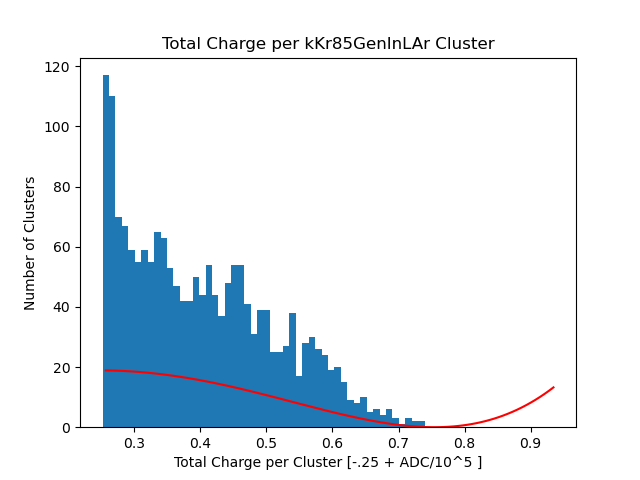
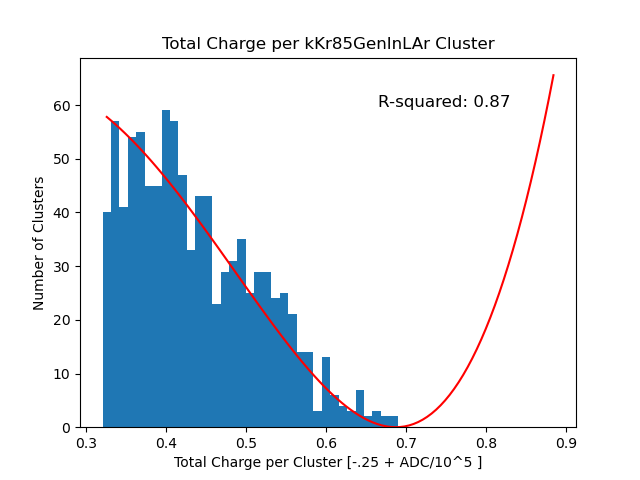
Corrected beta fit

diff --git a/app/cluster_analyse.py b/app/cluster_analyse.py
@@ -17,6 +17,7 @@ import os
 import argparse
 import warnings
 import gc
+from sklearn.metrics import r2_score
 
 import sys
 sys.path.append('../python/') 
@@ -140,9 +141,9 @@ dont use = 2
 '''
 #decay energies from https://periodictable.com/Isotopes/018.39/index.dm.html
 background_max_energy = {  
-    -1: [2,1],
-    0: [2,1 ],
-    1: [2,1 ],
+    -1: [2,1,0],
+    0: [2,1,0 ],
+    1: [2,1,0 ],
     2: [0,.565, 18,0], #beta
     3: [0,.68706,36,0], #beta
     4: [0,.59888,18,0], #beta
@@ -153,7 +154,7 @@ background_max_energy = {
     9: [0, 3.2697,83,0],   # beta (MeV)
     10: [0, 63.486e-3,82,0], # beta (MeV)
     11: [0, 1.31107,19,0], # beta (MeV)
-    12: [2,1 ],       # No specified type or energy
+    12: [2,1,0 ],       # No specified type or energy
     13: [0, .59888,19,0], # beta (MeV)
     14: [2, 6.11468,84,0],  # alpha (MeV)  #temporarily disableing this, why would in CPA be different distrigution that LAr
     15: [0, 1.0189,82,0],   # beta (MeV)
@@ -161,9 +162,9 @@ background_max_energy = {
     17: [0, 63.486e-3,82,0], # beta (MeV)
     18: [0, 1.161292,83,0],  # beta (MeV)
     19: [0, 2.823067,27,0], #beta
-    20: [2,1 ],
-    21: [2,1 ],
-    22: [2,1 ]
+    20: [2,1,0 ],
+    21: [2,1,0 ],
+    22: [2,1 ,0]
 }
 
 if uniform:
@@ -237,7 +238,7 @@ for label_num, charge_list in charge_lists.items():
     
     
     # Fit a polynomial to the histogram data
-
+    '''
     fig2 = plt.figure()
     hist, bins, _ = plt.hist(charge_list, bins=200)  
     plt.title(f'Total Charge per {labels[label_num]} Cluster [ADC]')  
@@ -268,8 +269,10 @@ for label_num, charge_list in charge_lists.items():
    
     plt.clf()
     
-    
+  '''
+  
     #fit sigmoid to hist data
+    # 
     if label_num not in exlude_expo:
         '''
         cut = np.std(charge_list)
@@ -319,34 +322,49 @@ for label_num, charge_list in charge_lists.items():
             denominator = (1-np.exp(-2*np.pi*eta(Z,T)))  
             return numerator/denominator    
         
-        def N(T,Z,C,Q):
+        def N(T,C,Z=background_max_energy[label_num][2],Q=background_max_energy[label_num][1]):
             return C*F(Z,T)*P(T)*E(T)*np.power((Q-T),2)
         
     if (label_num not in exlude_expo) and (len(background_max_energy[label_num]) > 2):
         scale = 100000
         if (len(charge_list)>10):
-            cut = (max(charge_list)/scale)/30 #cut out first 1st 1/25th of hist range
+            cut = (max(charge_list)/scale)/10 #cut out first 1st 1/25th of hist range
         else:
-            cut = .2
+            cut = .4
+        start = .2
         # to fit the expression for beta decay onto the ADC graph, I had to first modify the histogram because the expression does not scale
         # Now just find endpoint, and reverse the modification to find on ADC graph 
         # i.e. Find endpoint of fit, subtract .25, then multiply by 100,000 to find ADC endpoint
-        cut_charge_list_fit = [x/scale + .25 for x in charge_list if x/scale > cut ] # charge cut to cut out spike at low energies
-        charge_list_plt = [x/scale + .25 for x in charge_list] #charge list to plot, doesnt have spike cut but has scale
+        cut_charge_list_fit = [x/scale + start for x in charge_list if x/scale + start > .32 ] # charge cut to cut out spike at low energies
+        #charge_list_plt = [x/scale + .25 for x in charge_list] #charge list to plot, doesnt have spike cut but has scale
         fig_fermi = plt.figure()
-        hist_fit, bins, _ = plt.hist(cut_charge_list_fit,bins = 50)
-        plt.clf()
-        hist, bins, _ = plt.hist(charge_list_plt, bins=50)  #plot the hist but fit fermi on the cut histogram
+        hist_fit, bins, _ = plt.hist(cut_charge_list_fit,bins = 35)
+        #plt.clf()
+        #hist, bins, _ = plt.hist(cut_charge_list_fit, bins=60)  #plot the hist but fit fermi on the cut histogram
         plt.title(f'Total Charge per {labels[label_num]} Cluster')  
         plt.xlabel('Total Charge per Cluster [-.25 + ADC/10^5 ]')  
         plt.ylabel('Number of Clusters') 
         x = (bins[:-1] + bins[1:]) / 2  # Get x values for the center of each bin
+       
+        #bounds = ([background_max_energy[label_num][2]-100000, -10000000, background_max_energy[label_num][1]-500],
+         # [background_max_energy[label_num][2]+100000, 100000000, background_max_energy[label_num][1]+500])
      
         try:
-            params, pcov = curve_fit(N, x, hist_fit, p0=[background_max_energy[label_num][2],4,background_max_energy[label_num][1]])
+            #params = [0,200,1]
+            #params, pcov = curve_fit(N, x, hist_fit, p0=[background_max_energy[label_num][2],4,background_max_energy[label_num][1]])
+            params, pcov = curve_fit(N, x, hist_fit, p0=200)
+            perr = np.sqrt(np.diag(pcov))
             x_curve = np.linspace(min(x), max(x)+.2, 100) 
-            plt.plot(x_curve, N(x_curve,background_max_energy[label_num][2], params[1],params[2]), 'r-', label='Beta Fit')
+            #y_pred = N(x, background_max_energy[label_num][2], params[1], background_max_energy[label_num][1])   #Fit with Z and Q constant
+            y_pred = N(x, *params)
+
+            R_squared = r2_score(hist_fit, y_pred)
+            #plt.plot(x_curve, N(x_curve,background_max_energy[label_num][2], params[1],background_max_energy[label_num][1]), 'r-', label='Beta Fit')
+            plt.plot(x_curve, N(x_curve,*params), 'r-', label='Beta Fit') #fit with Q and Z not constants, varied for fit
+
+            plt.text(0.6, 0.9, f'R-squared: {R_squared:.2f}', transform=plt.gca().transAxes, fontsize=12, verticalalignment='top')
             plt.show()
+            print(f'Params for {labels[label_num]}: {params}')
             if uniform:
                 fig_fermi.savefig(f'plots/with_fermi_uniform/{labels[label_num]}_ADC.png')
             else:
@@ -354,23 +372,44 @@ for label_num, charge_list in charge_lists.items():
 
             plt.clf()
                     #find endpoint using fermi fit ^
-            start = .5
-            end = np.max(charge_list_plt) 
+                    
+            #create parameter samples
+            sample_size = 15
+            sampled_params = []
+            for i in range(sample_size):
+                sample_a = np.random.normal(params[0], perr[0])
+                sampled_params.append(sample_a)
+                
+            end = np.max(cut_charge_list_fit) 
             step = .01
             max_adc = 0
-            unc_count = 0
-            fit_min = 100
-            for x in range(int((end-start)/step)+1):
-                T = start + x*step
-                val = N(T,*params)
-                if val < 3:
-                    unc_count+=step #uncertainty measured by how "steep" the curve minimum is
-                    if val < fit_min: #find minimum of curve
-                        fit_min = val
-                        max_charge_fermi[label_num] = (T-.25)*scale #record energy at minimum value of curve
-            uncertainty = unc_count*scale
-            background_max_energy[label_num][3] = uncertainty
+            #unc_count = 0
+            endpoints = []
+            
+            for parameter in sampled_params:
+                fit_min = 100
+                T_max = 0
+                print(f'starting parameter search')
+                for x in range(int((end-start)/step)+1):
+                    energy_adc = start + x*step
+                    val = N(energy_adc,parameter)
+                    if label_num == 9:
+                        print(f'{energy_adc},{val}')
+                    if val < 40:
+                        #print("val < 3")
+                        #unc_count+=step #uncertainty measured by how "steep" the curve minimum is
+                        if val < fit_min: #find minimum of curve
+                            fit_min = val
+                            T_max = energy_adc
+            #uncertainty = unc_count*scale
+                print(f'adding endpoint: {T_max} for {labels[label_num]}')
+                endpoints.append(T_max)
+                
+            
                     #print(f"Endpoint for {labels[label_num]} is {T}")
+            print(f'mean endpoint is {np.mean(endpoints)}')       
+            max_charge_fermi[label_num] = (np.mean(endpoints)-start)*scale #record energy at minimum value of curve  
+            background_max_energy[label_num][3] = np.std(endpoints)      
         except RuntimeError as e:
             print(f"Could not fit {labels[label_num]}")
     
